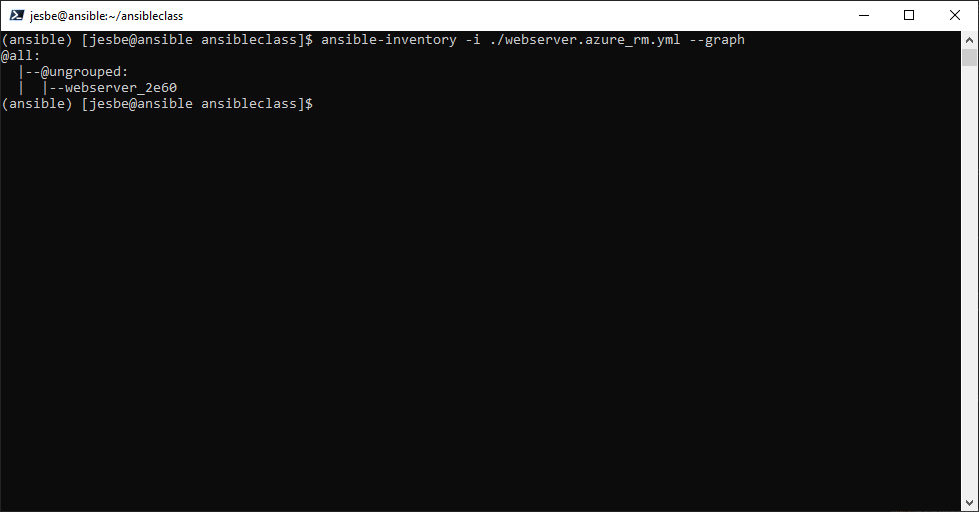
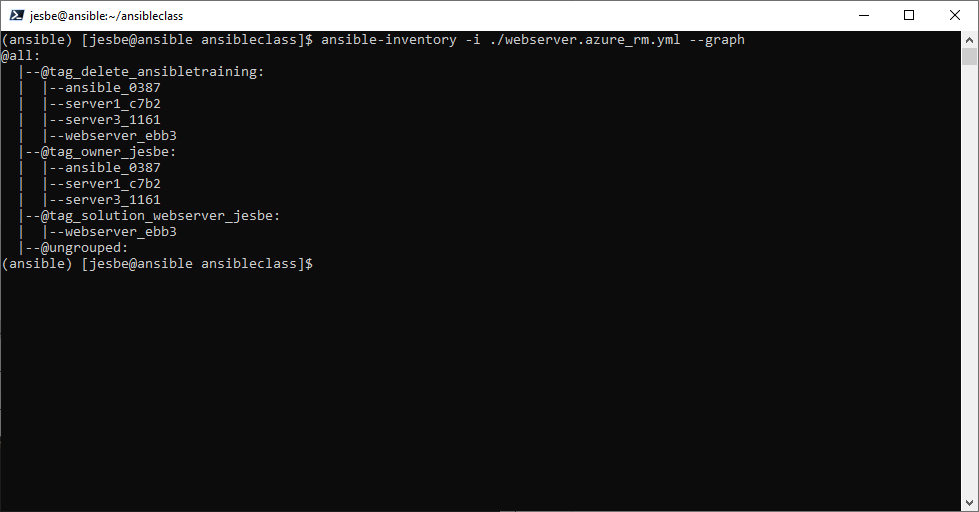
new pics with tags

diff --git a/lab04/lab4.md b/lab04/lab4.md
@@ -469,7 +469,7 @@ In VSCode create a new file 01_webserver_azure.yml
 Change the websiteauthor to your name
 
 ```ansible
-- hosts: all
+- hosts: tag_solution_webserver_jesbe
   become: yes
   vars:
     websiteheader: "Ansible Playbook"
